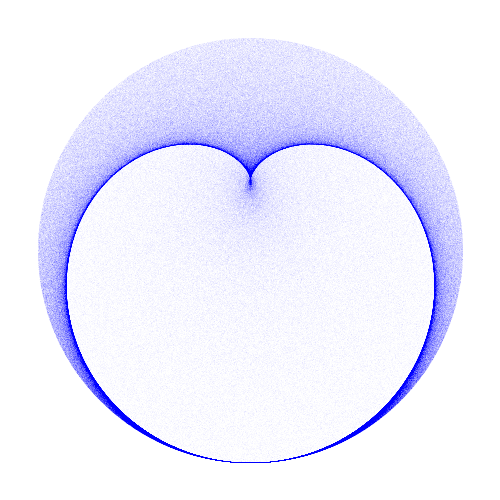
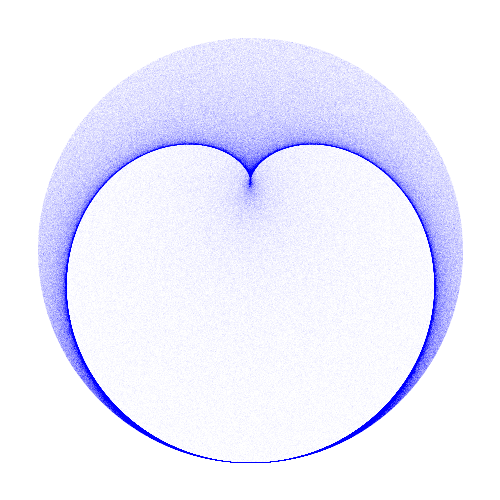
sample images

Changed region(s): [[0.06, 0.09, 0.93, 0.81], [0.78, 0.78, 0.81, 0.81], [0.21, 0.81, 0.24, 0.84]]

diff --git a/code_example/genImage_03.py b/code_example/genImage_03.py
@@ -1,9 +1,8 @@
 #!/usr/bin/env python3
 
 import multiprocessing
-import os
 
-from helper import circle, saveImage
+from helper import circle, saveImage, getImageName
 from math import pi
 from random import uniform
 
@@ -14,7 +13,7 @@ DPI = 100
 def initializeData(imageWidth, imageHeight):
     return [0] * imageHeight * imageWidth
 
-def computeData(processId, imageWidth, imageHeight, numSamples, k):
+def computeData(processId, imageWidth, imageHeight, numSamples, kA, kB):
     data = initializeData(imageWidth, imageHeight)
 
     cx = imageWidth/2
@@ -24,8 +23,8 @@ def computeData(processId, imageWidth, imageHeight, numSamples, k):
     for i in range(numSamples):
         theta = uniform(0, 2 * pi)
         
-        pA_x, pA_y = circle(theta, radius, cx, cy)
-        pB_x, pB_y = circle(k * theta, radius, cx, cy)
+        pA_x, pA_y = circle(kA * theta, radius, cx, cy)
+        pB_x, pB_y = circle(kB * theta, radius, cx, cy)
         
         # pick a random point on the line segment [pA, pB]
         r = uniform(0, 1)
@@ -40,18 +39,21 @@ def computeData(processId, imageWidth, imageHeight, numSamples, k):
     print("Finished process {}".format(processId))
     return data
     
-def runDataCalculations(imageWidth, imageHeight, numSamples, k):
+def runDataCalculations(imageWidth, imageHeight, numSamples, kA, kB):
+    totalNumProcesses = 10
+    numSamplesPerProcess = int(numSamples / totalNumProcesses)
+    
     data = initializeData(imageWidth, imageHeight)
     
     def saveData(remoteData):
         for i in range(len(data)):
             data[i] += remoteData[i]
-    
-    # number of processes depends on os.cpu_count() 
+            
+    # number of running processes depends on os.cpu_count() 
     pool = multiprocessing.Pool() 
-    for i in range(10):
+    for i in range(totalNumProcesses):
         pool.apply_async(computeData,
-                         args=(i, imageWidth, imageHeight, numSamples, k),
+                         args=(i, imageWidth, imageHeight, numSamplesPerProcess, kA, kB),
                          callback = saveData)
     pool.close()
     pool.join()
@@ -59,20 +61,19 @@ def runDataCalculations(imageWidth, imageHeight, numSamples, k):
     return data
 
 def makeImage(height, width, imageName):
-    k = 2
-    numSamples = 1000000
+    kA = 4
+    kB = 7
+    numSamples = 100000000
  
     imageWidth = min(width, height)
     imageHeight = max(width, height)
 
-    data = runDataCalculations(imageWidth, imageHeight, numSamples, k)
+    data = runDataCalculations(imageWidth, imageHeight, numSamples, kA, kB)
         
     saveImage(data, imageName, imageWidth, imageHeight)
     
 if __name__ == "__main__":
-    scriptName = os.path.basename(__file__)
-    fileNum = scriptName[9 : len(scriptName)-3]
-    imageName = 'image_{}.png'.format(fileNum)
+    imageName = getImageName(__file__)
     
     width = IMAGE_WIDTH_IN * DPI
     height = IMAGE_HEIGHT_IN * DPI

diff --git a/code_example/genImage_06.py b/code_example/genImage_06.py
@@ -1,8 +1,6 @@
 #!/usr/bin/env python3
 
-import os
-
-from helper import lemniscate, circle, saveImage
+from helper import rose, circle, saveImage, getImageName
 from math import pi
 from random import uniform
 
@@ -11,9 +9,9 @@ IMAGE_HEIGHT_IN = 5
 DPI = 100
 
 def makeImage(height, width, imageName):
-    kA = 4
-    kB = 3
-    numSamples = 1000000
+    kA = 1
+    kB = 2
+    numSamples = 100000000
  
     imageWidth = min(width, height)
     imageHeight = max(width, height)
@@ -25,9 +23,10 @@ def makeImage(height, width, imageName):
     radius  = imageWidth/2 * .85
 
     for i in range(numSamples):
-        theta = uniform(0, 2 * pi)
+        # Note: using 10 * pi.  If only 2 * pi, whole image is not drawn
+        theta = uniform(0, 10 * pi)
         
-        pA_x, pA_y = lemniscate(kA * theta, radius * .9, cx, cy)
+        pA_x, pA_y = rose(kA * theta, radius * .9, 1.2, cx, cy)
         pB_x, pB_y = circle(kB * theta, radius, cx, cy)
 
         # pick a random point on the line segment [pA, pB]
@@ -44,9 +43,7 @@ def makeImage(height, width, imageName):
     
 
 if __name__ == "__main__":
-    scriptName = os.path.basename(__file__)
-    fileNum = scriptName[9 : len(scriptName)-3]
-    imageName = 'image_{}.png'.format(fileNum)
+    imageName = getImageName(__file__)
     
     width = IMAGE_WIDTH_IN * DPI
     height = IMAGE_HEIGHT_IN * DPI

diff --git a/code_example/genImage_01.py b/code_example/genImage_01.py
@@ -1,8 +1,8 @@
 #!/usr/bin/env python3
 
-import os
+import re
 
-from helper import circle, saveImage
+from helper import circle, saveImage, getImageName
 from math import pi
 from random import uniform
 
@@ -10,9 +10,8 @@ IMAGE_WIDTH_IN = 5
 IMAGE_HEIGHT_IN = 5
 DPI = 100
 
-def makeImage(height, width, imageName):
+def makeImage(height, width, imageName, numSamples):
     k = 2
-    numSamples = 1000000
  
     imageWidth = min(width, height)
     imageHeight = max(width, height)
@@ -43,10 +42,9 @@ def makeImage(height, width, imageName):
     
 
 if __name__ == "__main__":
-    scriptName = os.path.basename(__file__)
-    fileNum = scriptName[9 : len(scriptName)-3]
-    imageName = 'image_{}.png'.format(fileNum)
+    imageName = getImageName(__file__)
     
-    width = IMAGE_WIDTH_IN * DPI
-    height = IMAGE_HEIGHT_IN * DPI
-    makeImage(height, width, imageName)
+    for numSamples in (1000000, 100000000):
+        width = IMAGE_WIDTH_IN * DPI
+        height = IMAGE_HEIGHT_IN * DPI
+        makeImage(height, width, re.sub("image", f"image_{numSamples}", imageName), numSamples)

diff --git a/code_example/genImage_02_B.py b/code_example/genImage_02_B.py
@@ -1,8 +1,6 @@
 #!/usr/bin/env python3
 
-import os
-
-from helper import circle, saveImage
+from helper import circle, saveImage, getImageName
 from math import pi
 from random import uniform
 
@@ -13,7 +11,7 @@ DPI = 100
 def makeImage(height, width, imageName):
     kA = 3
     kB = 2
-    numSamples = 1000000
+    numSamples = 100000000
  
     imageWidth = min(width, height)
     imageHeight = max(width, height)
@@ -44,9 +42,7 @@ def makeImage(height, width, imageName):
     
 
 if __name__ == "__main__":
-    scriptName = os.path.basename(__file__)
-    fileNum = scriptName[9 : len(scriptName)-3]
-    imageName = 'image_{}.png'.format(fileNum)
+    imageName = getImageName(__file__)
     
     width = IMAGE_WIDTH_IN * DPI
     height = IMAGE_HEIGHT_IN * DPI

diff --git a/code_example/genImage_05.py b/code_example/genImage_05.py
@@ -1,8 +1,6 @@
 #!/usr/bin/env python3
 
-import os
-
-from helper import lemniscate, saveImage
+from helper import lemniscate, saveImage, getImageName
 from math import pi
 from random import uniform
 
@@ -12,7 +10,7 @@ DPI = 100
 
 def makeImage(height, width, imageName):
     k = 4
-    numSamples = 1000000
+    numSamples = 100000000
  
     imageWidth = min(width, height)
     imageHeight = max(width, height)
@@ -43,9 +41,7 @@ def makeImage(height, width, imageName):
     
 
 if __name__ == "__main__":
-    scriptName = os.path.basename(__file__)
-    fileNum = scriptName[9 : len(scriptName)-3]
-    imageName = 'image_{}.png'.format(fileNum)
+    imageName = getImageName(__file__)
     
     width = IMAGE_WIDTH_IN * DPI
     height = IMAGE_HEIGHT_IN * DPI

diff --git a/code_example/genImage_02_A.py b/code_example/genImage_02_A.py
@@ -1,8 +1,6 @@
 #!/usr/bin/env python3
 
-import os
-
-from helper import circle, saveImage
+from helper import circle, saveImage, getImageName
 from math import pi
 from random import uniform
 
@@ -12,7 +10,7 @@ DPI = 100
 
 def makeImage(height, width, imageName):
     k = 1.5
-    numSamples = 1000000
+    numSamples = 100000000
  
     imageWidth = min(width, height)
     imageHeight = max(width, height)
@@ -43,9 +41,7 @@ def makeImage(height, width, imageName):
     
 
 if __name__ == "__main__":
-    scriptName = os.path.basename(__file__)
-    fileNum = scriptName[9 : len(scriptName)-3]
-    imageName = 'image_{}.png'.format(fileNum)
+    imageName = getImageName(__file__)
     
     width = IMAGE_WIDTH_IN * DPI
     height = IMAGE_HEIGHT_IN * DPI

diff --git a/code_example/genImage_04.py b/code_example/genImage_04.py
@@ -1,8 +1,6 @@
 #!/usr/bin/env python3
 
-import os
-
-from helper import rose, saveImage
+from helper import rose, saveImage, getImageName
 from math import pi
 from random import uniform
 
@@ -12,7 +10,7 @@ DPI = 100
 
 def makeImage(height, width, imageName):
     k = 4
-    numSamples = 1000000
+    numSamples = 100000000
  
     imageWidth = min(width, height)
     imageHeight = max(width, height)
@@ -43,9 +41,7 @@ def makeImage(height, width, imageName):
     
 
 if __name__ == "__main__":
-    scriptName = os.path.basename(__file__)
-    fileNum = scriptName[9 : len(scriptName)-3]
-    imageName = 'image_{}.png'.format(fileNum)
+    imageName = getImageName(__file__)
     
     width = IMAGE_WIDTH_IN * DPI
     height = IMAGE_HEIGHT_IN * DPI

diff --git a/code_example/helper.py b/code_example/helper.py
@@ -1,9 +1,13 @@
+import os
 import numpy as np
 
 from PIL import Image
 from math import cos, sin
 
 def saveImage(data, imageName, imageWidth, imageHeight):
+    '''
+    Convert and save data to PNG file. 
+    '''
     maxCount = max(data)
     bg = [255, 255, 255]
     fg = [  0,   0, 255]
@@ -20,6 +24,14 @@ def saveImage(data, imageName, imageWidth, imageHeight):
     
     img = Image.fromarray(rgb)
     img.save(imageName)
+    
+def getImageName(sourceScriptName):
+    scriptName = os.path.basename(sourceScriptName)
+    fileNum = scriptName[9 : len(scriptName)-3]
+    imageName = 'image_{}.png'.format(fileNum)
+    return imageName
+
+# Parametric equations
 
 def circle(theta, radius, cx, cy):
     x = cos(theta) * radius + cx
